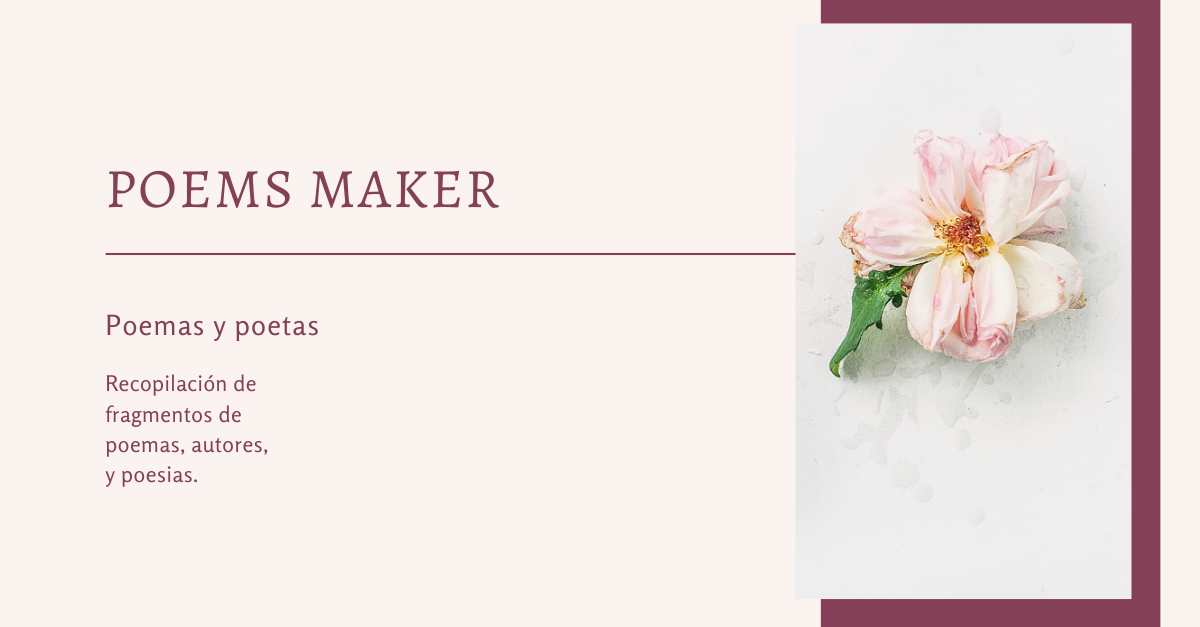
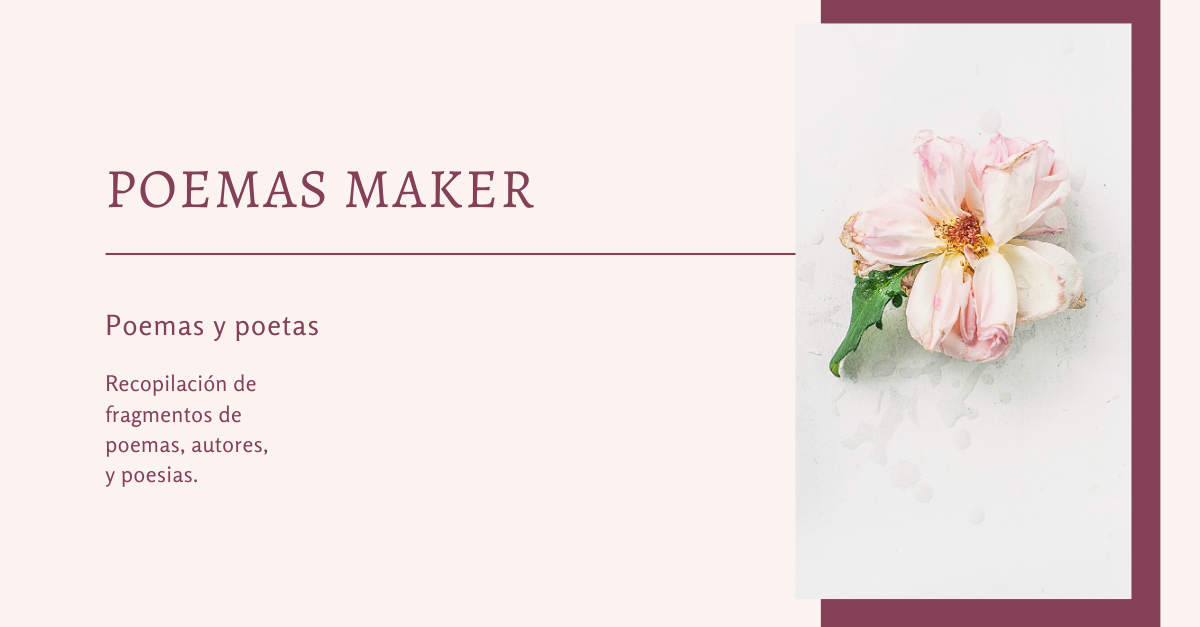
Update names

Changed region(s): [[0.2158, 0.2727, 0.4625, 0.3333]]

diff --git a/src/pages/Header.jsx b/src/pages/Header.jsx
@@ -5,7 +5,7 @@ const Header = () => {
   return (
     <Fragment>
       <nav className="navbar navbar-expand-lg navbar-light bg-primary">
-        <a className="navbar-brand" href="/">Poems Maker</a>
+        <a className="navbar-brand" href="/">Poemas Maker</a>
         <button className="navbar-toggler" type="button" data-toggle="collapse" data-target="#navbarSupportedContent" aria-controls="navbarSupportedContent" aria-expanded="false" aria-label="Toggle navigation">
           <span className="navbar-toggler-icon"></span>
         </button>

diff --git a/public/index.html b/public/index.html
@@ -2,7 +2,7 @@
 <html lang="en">
   <head>
     <meta charset="utf-8" />
-    <title>Poems Maker</title>
+    <title>Poemas Maker</title>
     <link rel="icon" href="%PUBLIC_URL%/favicon.png" />
     <meta name="viewport" content="width=device-width, initial-scale=1" />
     <meta http-equiv="Content-Security-Policy" content="connect-src https://*.algolia.net https://*.algolianet.com https://poemasmaker.firebaseio.com https://*.cloudfunctions.net ws:;">

diff --git a/src/pages/Footer.jsx b/src/pages/Footer.jsx
@@ -36,7 +36,7 @@ const Footer = () => {
           <div className="row">
             <div className="col-md-8 col-sm-6 col-xs-12">
               <p className="copyright-text">Copyright &copy; 2020 All Rights Reserved by
-                <a href="/"> Poems Maker</a>.
+                <a href="/"> Poemas Maker</a>.
               </p>
               <br />
               <p>
